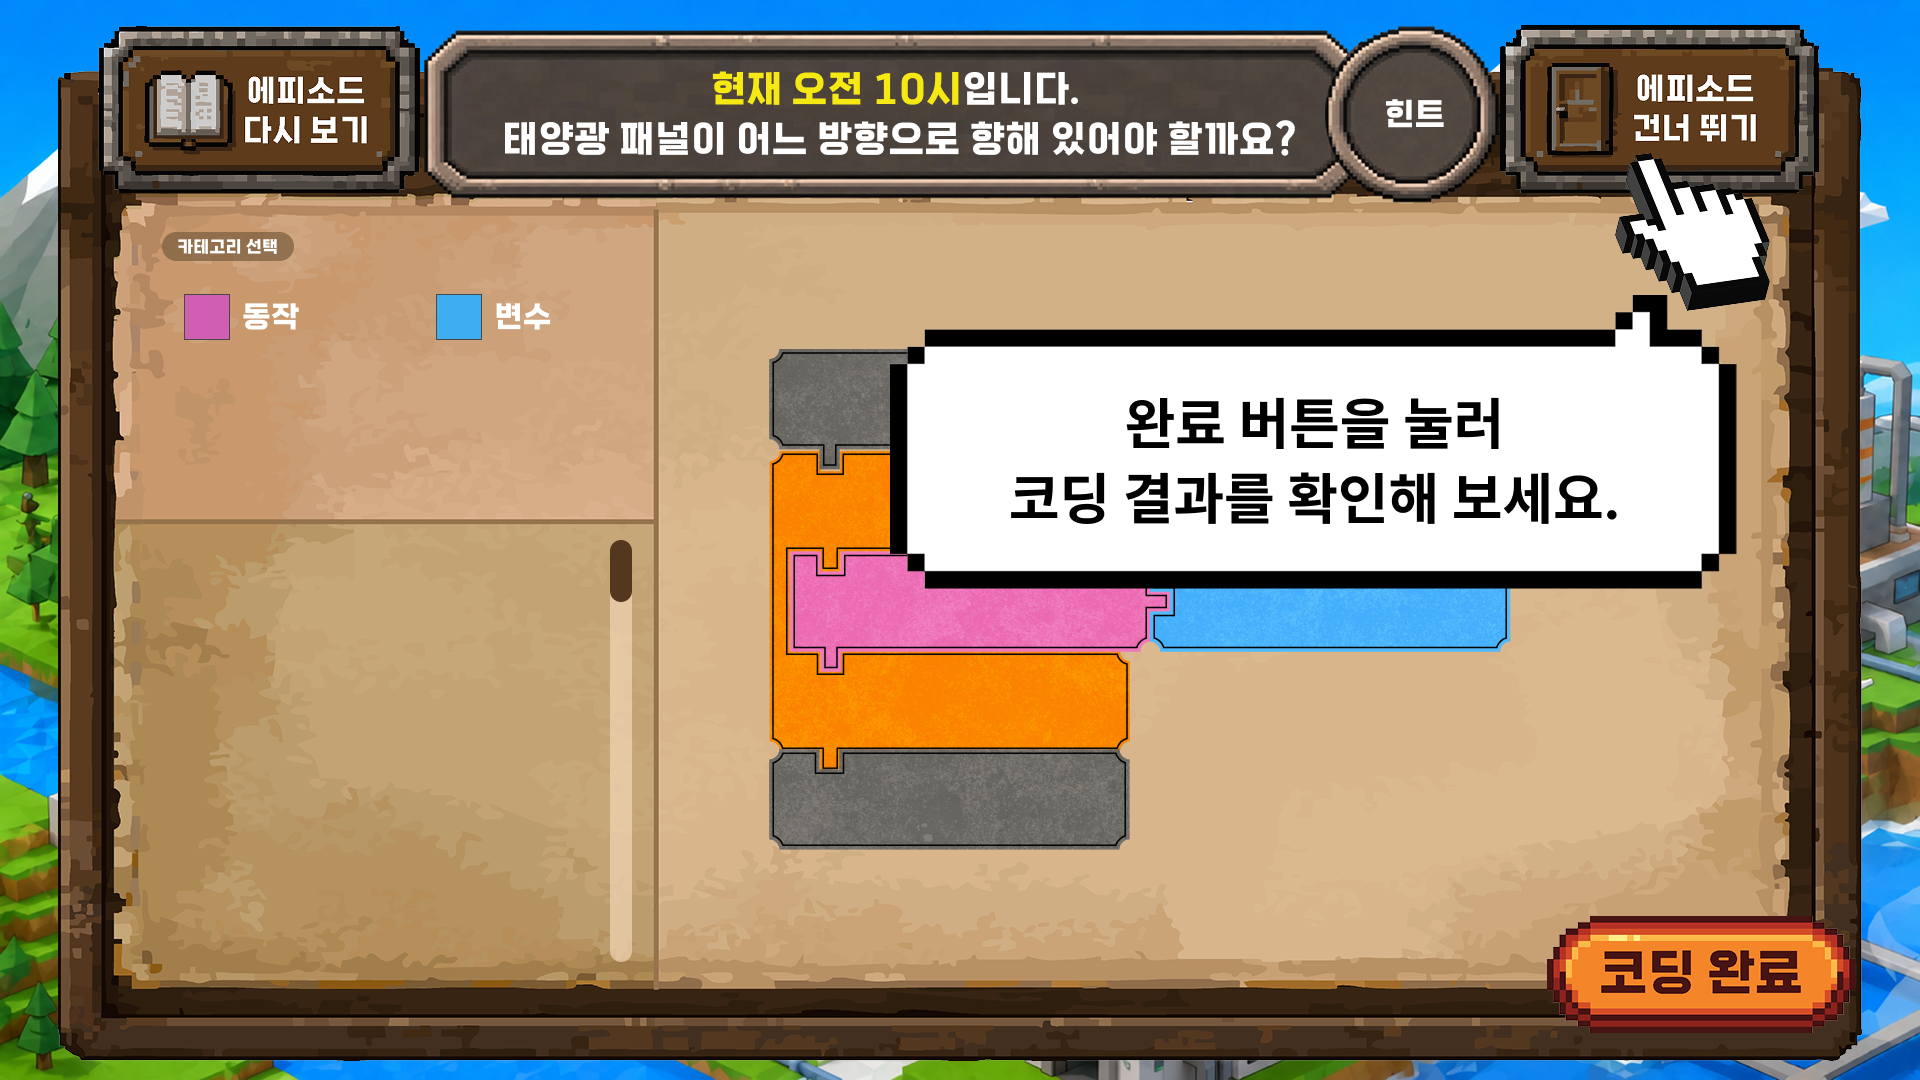
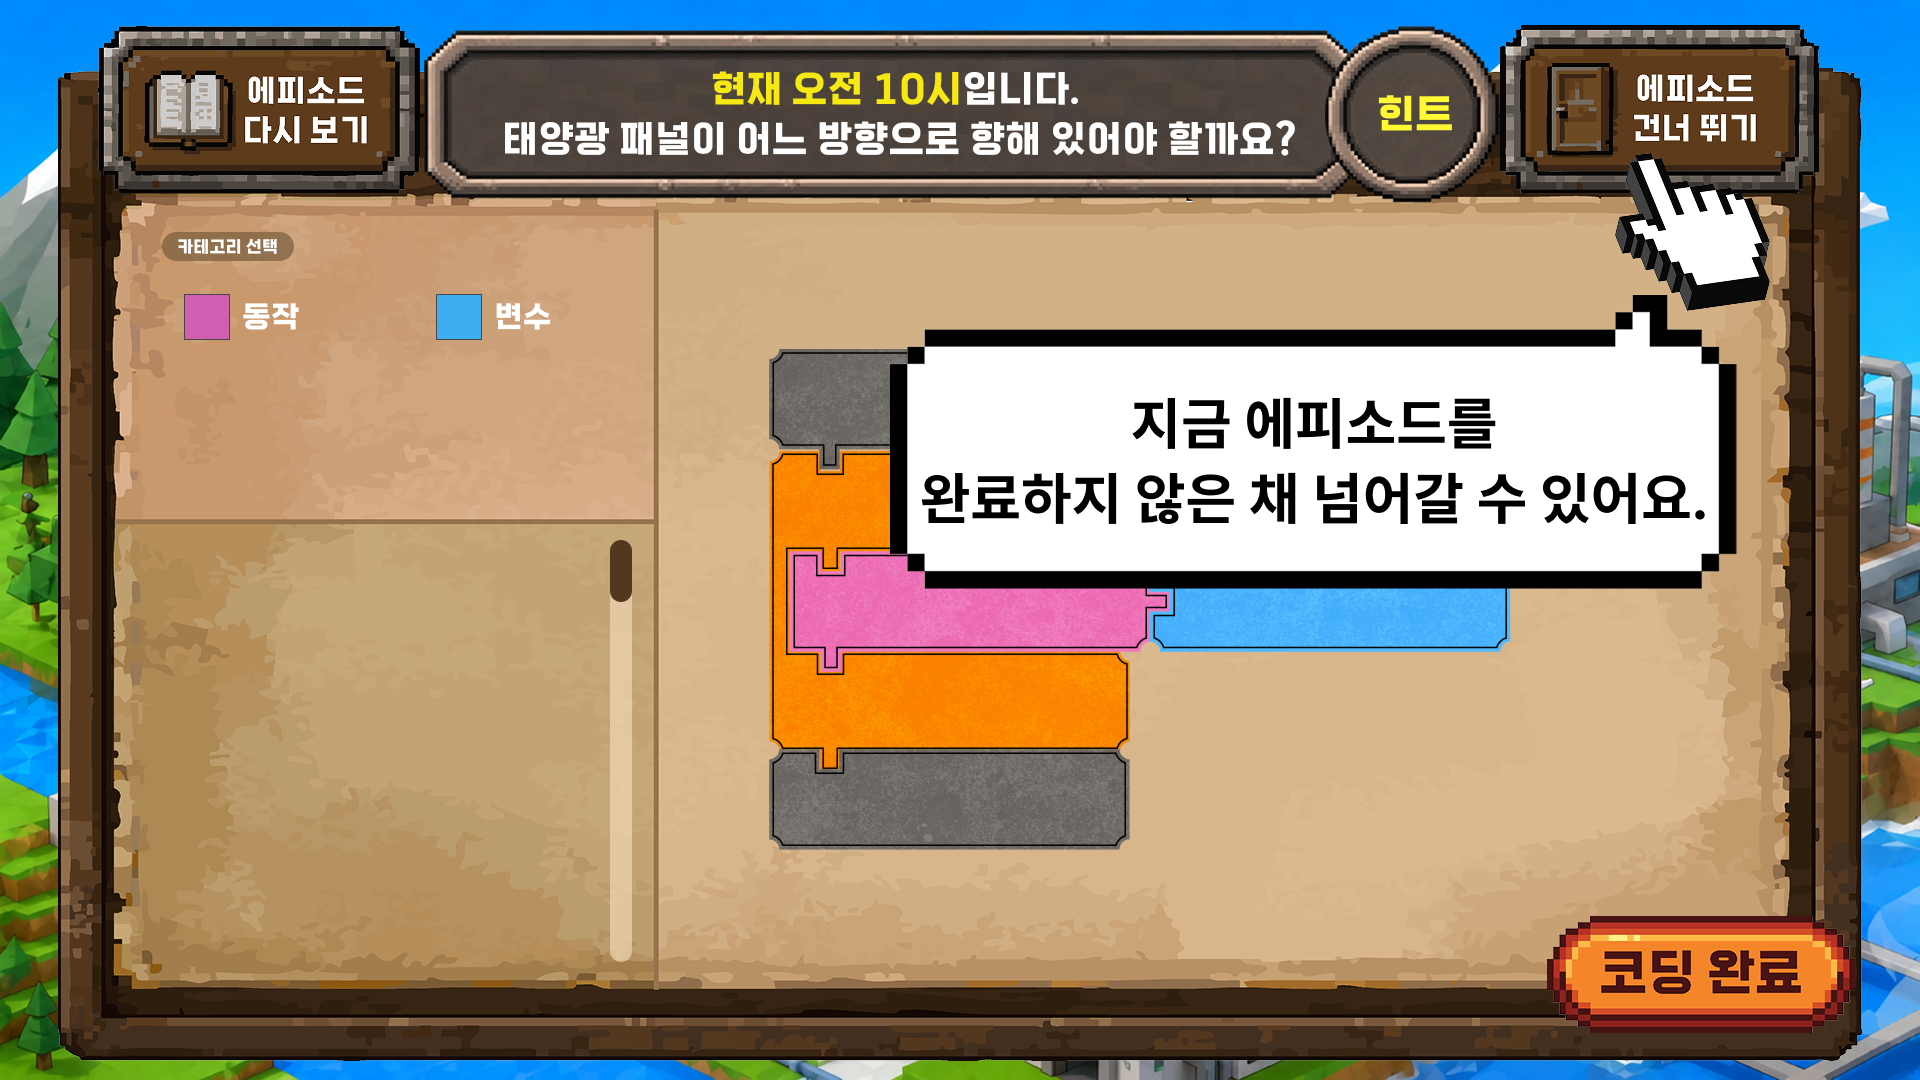
chore: 튜토리얼 7번 이미지를 에피소드 건너뛰기 안내 이미지로 교체
- Tutorial7.png 내용만 새 이미지로 바꿔 GUID·Addressables 주소 Tutorial7 유지
- Player Settings Version 26.10.20
- CHANGELOG·TODO·HANDOFF 갱신

Changed region(s): [[0.4688, 0.3667, 0.875, 0.4889], [0.7188, 0.0917, 0.7812, 0.1222]]

diff --git a/docs/agents/HANDOFF.md b/docs/agents/HANDOFF.md
@@ -4,6 +4,15 @@ Claude가 Antigravity(agy)와 리뷰 서브에이전트에 맡긴 검증 기록.
 
 ---
 
+### [2026-10-20 13:47] Claude → Antigravity + 서브에이전트 · 튜토리얼 이미지 7번 교체 (chore/tutorial7-image)
+- 요청: Tutorial 폴더에 넣은 새 튜토리얼 7번 이미지로 교체.
+- 변경: 사용자가 넣은 '튜토리얼 7.png'(1920×1080, 같은 임포트 설정)의 내용으로 Tutorial7.png만 덮어쓰고, 넣은 파일과 그 meta는 지움. meta를 그대로 둬 GUID와 Addressables 주소 Tutorial7 유지. Version 26.10.20.
+- Claude 확인: Unity 에셋 강제 리프레시 뒤 콘솔 에러·경고 0, 지운 파일의 GUID를 참조하는 곳 0. 코드 변경이 없어 PlayMode 테스트는 돌리지 않음.
+- agy (gemini-4-argon-high, 1묶음):
+  - meta GUID와 Addressables 항목 일치·남은 파일 없음, 주소로 로드, 콘솔 → 통과
+- 서브에이전트 (1묶음):
+  - Version·CHANGELOG·TODO 형식, 새 이미지 말풍선 문구와 CHANGELOG 일치 → 통과
+
 ### [2026-10-19 17:28] Claude → Antigravity + 서브에이전트 · Template 26.10.19-1 반영, 나레이션 미리 읽기 (feat/intro-narration)
 - 요청: 사용자가 Template을 고쳤으니(SoundManager 미리 불러오기·로드 중 정지) 패키지를 업데이트하고 확인.
 - 변경: packages-lock 고정 커밋 a036657 → 7fbccfe(26.10.19-1, PreloadAsync 추가·로드 중 StopSFX 뒤 재생 막음). IntroSceneManager.Start가 나레이션 PreloadAsync를 SceneFader 대기 작업으로 등록해 클립을 다 읽은 뒤 페이드인.

diff --git a/TODO.md b/TODO.md
@@ -20,6 +20,8 @@
 
 ## 완료
 
+- [x] 튜토리얼 이미지 7번을 새 이미지(에피소드 건너뛰기 안내)로 교체 — 사용자가 넣은 '튜토리얼 7.png'의 내용으로 Tutorial7.png만 덮어써 GUID·Addressables 주소 Tutorial7 유지, 넣은 파일과 meta는 지움, Player Settings Version 26.10.20 — 콘솔 에러 0, PlayMode 미실행(코드 변경 없음) — 담당: Claude / 검증: Antigravity + 서브에이전트 (2026-10-20)
+
 - [x] HuliacDev Template 26.10.16-1 → 26.10.19-1 반영(packages-lock 고정 커밋 a036657 → 7fbccfe — SoundManager.PreloadAsync 추가, 로드 중 StopSFX 뒤 재생 막음), 인트로가 나레이션 클립을 다 읽은 뒤 페이드인해 앱을 켠 뒤 첫 재생도 줄 연출과 같은 순간에 시작 — PlayMode 227/227, Play 모드로 타이틀→인트로 전환해 확인 — 담당: Claude / 검증: Antigravity + 서브에이전트 (2026-10-19)
 
 - [x] 1존 에피소드 나레이션(Zone_1_Episode_Narration.mp3)을 1_Intro 페이드인이 끝나면 틀고, 인트로 문구 줄이 나레이션 문장마다 맞춰 올라오게 함(1_Intro.json narrationLineStartTimes, 튜토리얼로 넘어가면 나레이션 멈춤) — PlayMode 227/227 — 담당: Claude / 검증: Antigravity + 서브에이전트 (2026-10-19)

diff --git a/CHANGELOG.md b/CHANGELOG.md
@@ -6,6 +6,9 @@
 
 ## [Unreleased]
 
+### Changed
+- 튜토리얼 7번째 장을 새 이미지로 바꿔, 손가락이 가리키는 '에피소드 건너뛰기' 버튼 설명('지금 에피소드를 완료하지 않은 채 넘어갈 수 있어요.')이 나오게 함.
+
 ## [2026-10-19]
 
 ### Added
